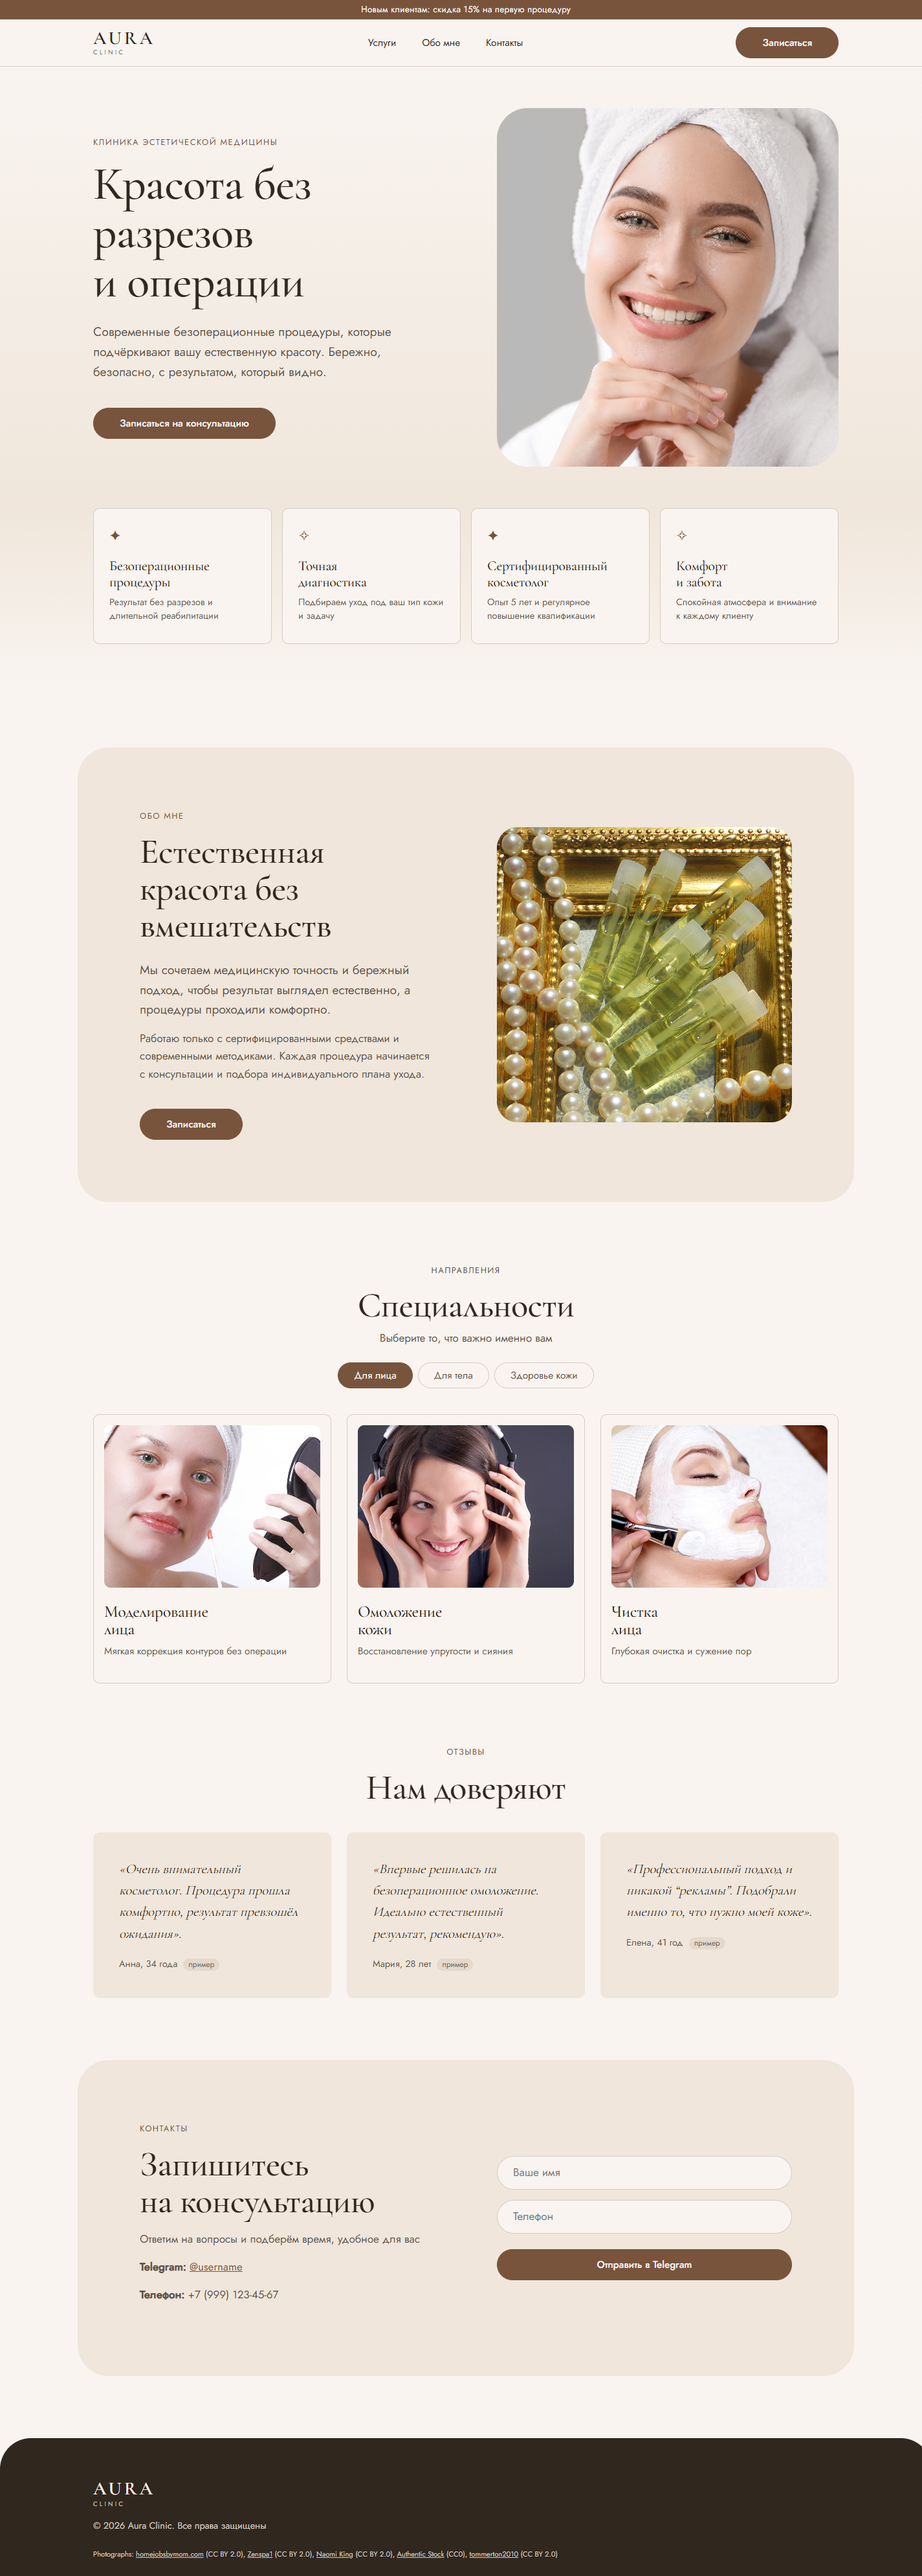
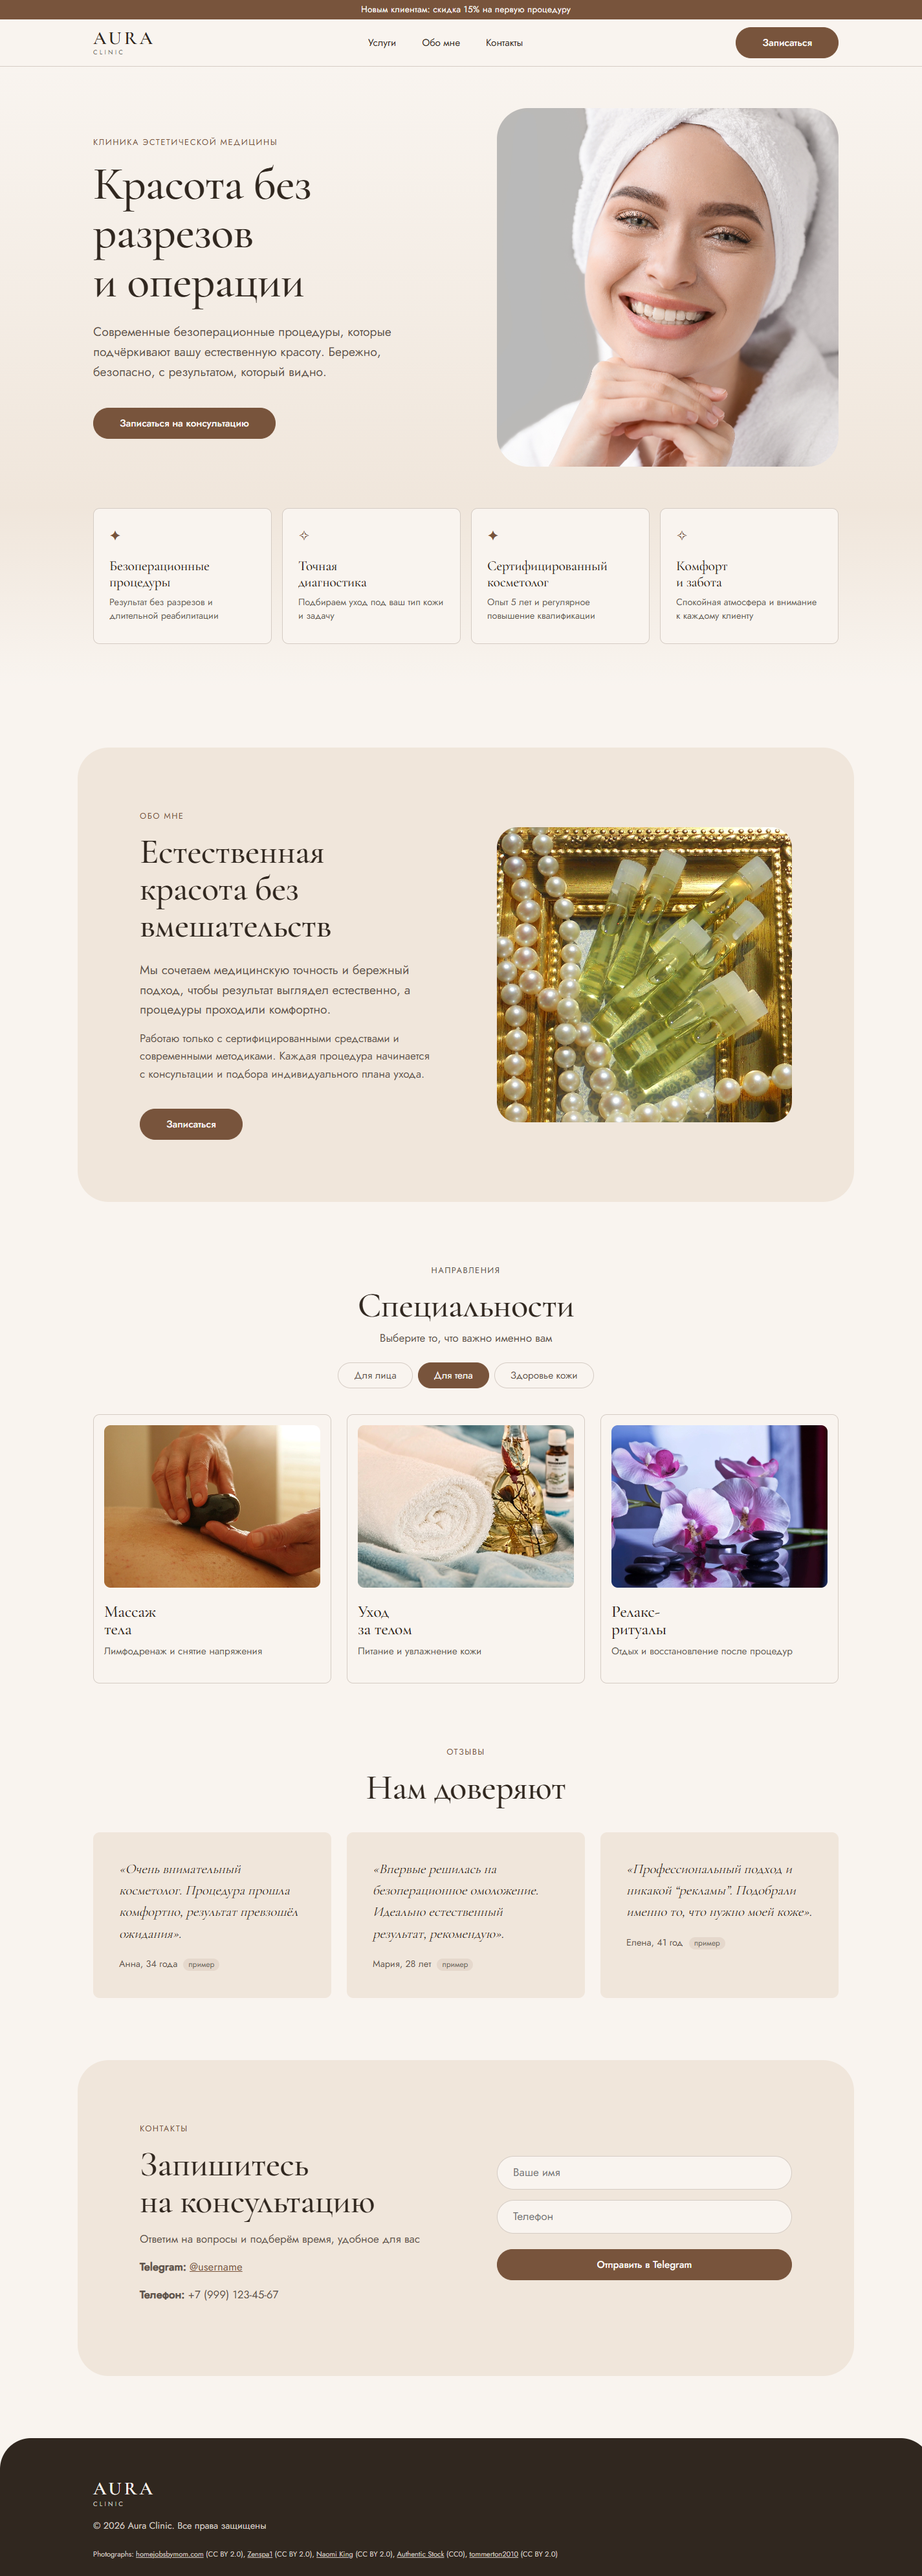
лендинг: разные фото во вкладке «Для тела» и обновлённые alt

Changed region(s): [[0.0926, 0.5296, 0.8954, 0.6543]]

diff --git a/index.html b/index.html
@@ -122,17 +122,17 @@
       </div>
       <div class="services-grid" role="tabpanel" id="panel-body" aria-labelledby="tab-body" tabindex="0" hidden>
         <article class="service-card">
-          <div class="card-img"><div class="placeholder" data-slot="body-1" data-alt="Массаж плеча и спины на белом полотенце"></div></div>
+          <div class="card-img"><div class="placeholder" data-slot="body-1" data-alt="Горячий камень на спине во время массажа"></div></div>
           <h3>Массаж<br>тела</h3>
           <p>Лимфодренаж и снятие напряжения</p>
         </article>
         <article class="service-card">
-          <div class="card-img"><div class="placeholder" data-slot="body-2" data-alt="Массаж спины при тёплом свете"></div></div>
+          <div class="card-img"><div class="placeholder" data-slot="body-2" data-alt="Свёрнутое полотенце и бутылочки с маслом для ухода за телом"></div></div>
           <h3>Уход<br>за телом</h3>
           <p>Питание и увлажнение кожи</p>
         </article>
         <article class="service-card">
-          <div class="card-img"><div class="placeholder" data-slot="body-3" data-alt="Женщина отдыхает на массажном столе"></div></div>
+          <div class="card-img"><div class="placeholder" data-slot="body-3" data-alt="Орхидеи и камни для спа-ритуала"></div></div>
           <h3>Релакс-<br>ритуалы</h3>
           <p>Отдых и восстановление после процедур</p>
         </article>

diff --git a/script.js b/script.js
@@ -23,8 +23,8 @@ document.addEventListener('DOMContentLoaded', () => {
     'process-4': 'images/beauty-face.jpg',
     'process-1': 'images/process-consultation.jpg',
     'body-1': 'images/body-massage.jpg',
-    'body-2': 'images/body-candles.jpg',
-    'body-3': 'images/body-rest.jpg',
+    'body-2': 'images/body-care.jpg',
+    'body-3': 'images/body-relax.jpg',
     'health-1': 'images/skin-serum.jpg',
     'health-2': 'images/skin-cream.jpg',
     'health-3': 'images/skin-smile.jpg',

diff --git a/README.md b/README.md
@@ -24,9 +24,9 @@
 
 ## Фото
 
-Фотографии с лицензией **CC BY 2.0** (Flickr) и **CC0** (StockSnap). Авторы и ссылки указаны в футере страницы в блоке `data-credits`.
+Фотографии с лицензией **CC BY 2.0** (Flickr) и **CC0** (StockSnap, Rawpixel). Авторы CC BY указаны в футере страницы в блоке `data-credits`; CC0 не требует указания авторства.
 
-Файлы: `images/hero-spa.jpg`, `images/about.jpg`, `images/process-consultation.jpg`, `images/process-result.jpg`, `images/beauty-face.jpg` (CC BY), `images/body-massage.jpg`, `images/body-candles.jpg`, `images/body-rest.jpg`, `images/skin-serum.jpg`, `images/skin-cream.jpg`, `images/skin-smile.jpg` (CC0, StockSnap).
+Файлы: `images/hero-spa.jpg`, `images/about.jpg`, `images/process-consultation.jpg`, `images/process-result.jpg`, `images/beauty-face.jpg` (CC BY), `images/body-massage.jpg`, `images/body-care.jpg`, `images/body-relax.jpg` (CC0, Rawpixel: 5913670, 5949647, 5944979), `images/skin-serum.jpg`, `images/skin-cream.jpg`, `images/skin-smile.jpg` (CC0, StockSnap).
 
 ## Деплой
 
